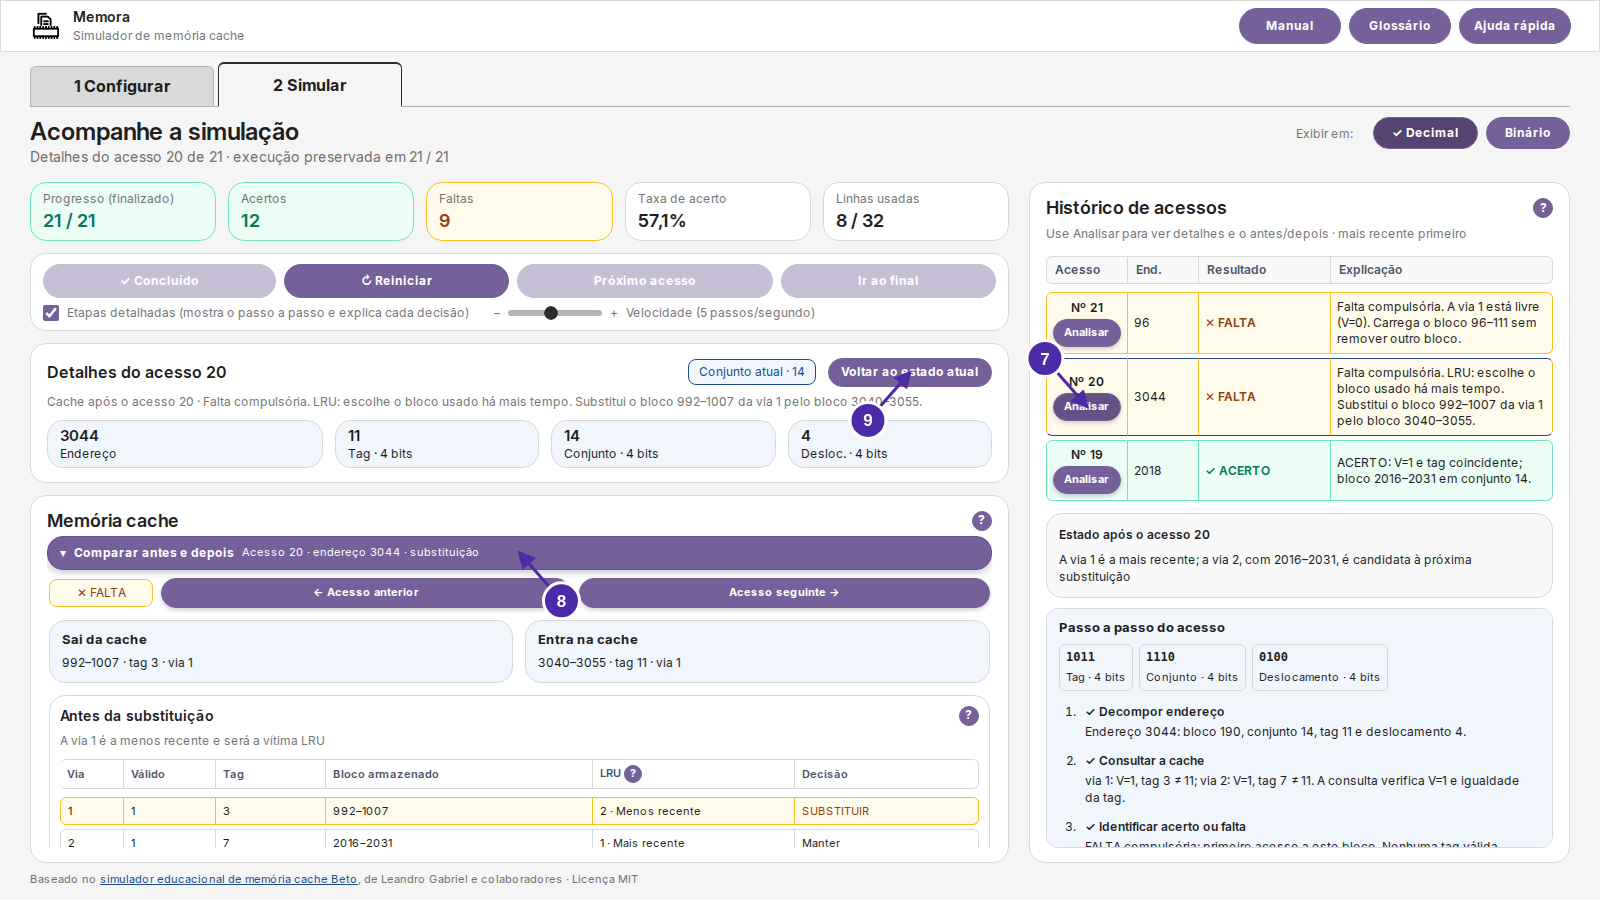
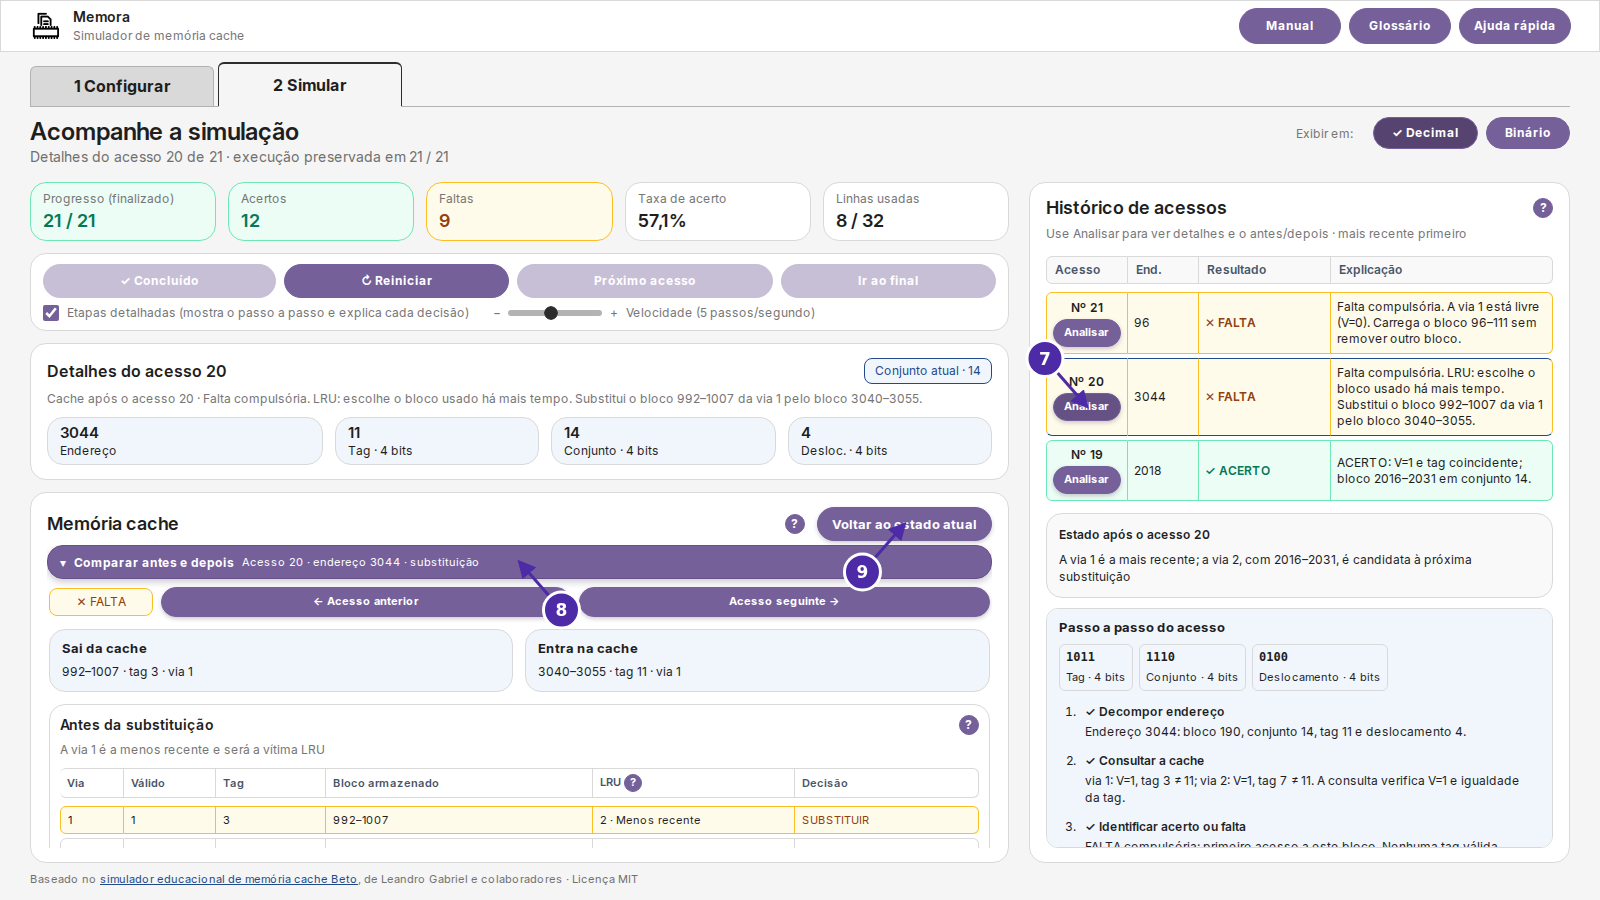
fix(ux): destaca o retorno ao estado atual da cache (#95)
* fix(ux): destaca retorno ao estado atual na memória cache

* docs(memora): atualiza a captura de retorno e a verificação

* docs(tcc): distingue as entregas dos PRs 95 e 96

Changed region(s): [[0.0312, 0.3733, 0.625, 0.9644], [0.5938, 0.7778, 0.625, 0.8089]]

diff --git a/packages/memora/index.html b/packages/memora/index.html
@@ -146,12 +146,16 @@
             </section>
             <p id="sim-status" class="sr-only" role="status" aria-live="polite">Pronto para iniciar · nenhum acesso foi processado</p>
             <section class="simulation-address simulation-card" aria-labelledby="current-address-heading">
-              <div class="simulation-card-heading"><h2 id="current-address-heading" tabindex="-1">Próximo acesso</h2><span id="address-set" class="set-badge" hidden></span><button type="button" id="show-live" hidden>Voltar ao estado atual</button></div>
+              <div class="simulation-card-heading"><h2 id="current-address-heading" tabindex="-1">Próximo acesso</h2><span id="address-set" class="set-badge" hidden></span></div>
               <p id="current-address-description" class="simulation-description">O primeiro endereço será decomposto quando a simulação começar</p>
               <dl class="current-address-parts"><div><dd id="sim-address">—</dd><dt>Endereço</dt></div><div><dd id="sim-tag">—</dd><dt id="sim-tag-label">Tag</dt></div><div><dd id="sim-set">—</dd><dt id="sim-set-label">Conjunto</dt></div><div><dd id="sim-offset">—</dd><dt id="sim-offset-label">Deslocamento</dt></div></dl>
             </section>
             <section class="simulation-cache simulation-card" aria-labelledby="cache-heading">
-              <div class="simulation-card-heading"><h2 id="cache-heading">Memória cache</h2><button type="button" class="help-button" data-help="cache" aria-label="Ajuda: Memória cache">?</button></div>
+              <div class="simulation-card-heading">
+                <h2 id="cache-heading" tabindex="-1">Memória cache</h2>
+                <button type="button" class="help-button" data-help="cache" aria-label="Ajuda: Memória cache">?</button>
+                <button type="button" id="show-live" aria-controls="access-comparison cache-scroll" hidden>Voltar ao estado atual</button>
+              </div>
               <p class="simulation-description" id="cache-description">A cache começa vazia. As linhas aparecerão conforme os blocos forem carregados</p>
               <div id="cache-navigation" class="cache-navigation" hidden><span id="cache-page-summary"></span><div><button id="cache-prev" type="button">← Anteriores</button><button id="cache-next" type="button">Próximas →</button></div><form id="cache-jump-form"><label for="cache-line-jump">Ir à linha</label><input id="cache-line-jump" type="text" inputmode="numeric" aria-describedby="cache-jump-error"><button type="submit">Ir</button></form><p id="cache-jump-error" class="error-text" role="status"></p></div>
               <details id="access-comparison" class="cache-comparison" hidden>

diff --git a/packages/memora/browser/comparison.spec.js b/packages/memora/browser/comparison.spec.js
@@ -179,6 +179,10 @@ test('comparação é operável por teclado e mantém ajuda e foco', async ({pag
 test('Analisar é uma ação visível que abre diretamente o antes/depois e mantém o foco', async ({page}) => {
   await prepare(page, 20);
   const review = page.getByRole('button', { name: 'Analisar acesso 20', exact: true });
+  const cache = page.getByRole('region', { name: 'Memória cache', exact: true });
+  const returnToLive = cache.getByRole('button', { name: 'Voltar ao estado atual', exact: true });
+  const statistics = await page.locator('.simulation-metrics dd').allTextContents();
+  await expect(returnToLive).toBeHidden();
   await expect(review).toHaveText('Analisar');
   await expect(page.locator('#history-table tr[data-access="20"] .history-access-number')).toHaveText('Nº 20');
   await review.focus();
@@ -196,9 +200,16 @@ test('Analisar é uma ação visível que abre diretamente o antes/depois e mant
   await review.focus();
   await page.keyboard.press('Space');
   await expect(page.locator('#access-comparison')).toHaveAttribute('open', '');
-  await page.locator('#show-live').click();
+  await expect(returnToLive).toBeVisible();
+  await expect(returnToLive).not.toHaveCSS('box-shadow', 'none');
+  await returnToLive.focus();
+  await page.keyboard.press('Enter');
+  await expect(returnToLive).toBeHidden();
+  await expect(cache.getByRole('heading', { name: 'Memória cache', exact: true })).toBeFocused();
+  await expect(review).toHaveAttribute('aria-pressed', 'false');
   await expect(page.locator('#access-comparison')).not.toHaveAttribute('open');
   await expect(page.locator('#cache-scroll')).toBeVisible();
+  expect(await page.locator('.simulation-metrics dd').allTextContents()).toEqual(statistics);
 });
 
 for (const [width,height] of [[1280,720],[1366,768],[1920,1080],[801,900],[390,900],[320,900]]) {

diff --git a/packages/memora/src/ui/manual-content.js b/packages/memora/src/ui/manual-content.js
@@ -38,12 +38,12 @@ export const MANUAL_PAGES = {
       markers: ['#sim-play', '#sim-next', '#sim-detailed', '#sim-speed', '#cache-heading', '#history-heading'],
     }, {
       image: image('comparacao.png'),
-      alt: 'Simulação com acesso 20 selecionado; marcadores 7 a 9 identificam a comparação e o retorno ao estado atual.',
+      alt: 'Simulação com acesso 20 selecionado; o marcador 9 indica o retorno no cabeçalho de Memória cache.',
       caption: 'No cenário LRU, analisar o acesso 20 evidencia a substituição do bloco 992–1007 pelo bloco 3040–3055.',
       steps: [
         ['Analisar a substituição', 'No histórico, clique em Analisar no acesso Nº 20. A comparação abre junto da memória cache, mostrando o acesso selecionado.'],
         ['Comparar antes e depois', 'Confira Sai da cache e Entra na cache e as tabelas Antes da substituição e Depois da substituição. Use Acesso anterior/seguinte para navegar entre registros.'],
-        ['Voltar ao estado atual', 'Clique em Voltar ao estado atual para sair da análise. O progresso, a cache e os totais da execução permanecem preservados.'],
+        ['Voltar ao estado atual', 'No cabeçalho de Memória cache, clique em Voltar ao estado atual para sair da análise e retomar a consulta da cache da execução. O progresso e os totais ficam preservados.'],
       ],
       markers: ['#history-table [data-review="20"]', '#access-comparison summary', '#show-live'],
       start: 7,

diff --git a/packages/memora/src/styles/simulation.css b/packages/memora/src/styles/simulation.css
@@ -95,7 +95,7 @@
 .pending-row td { background: var(--memora-info-background); }
 .history-summary { margin-top: 12px; flex-shrink: 0; padding: 12px; border: 1px solid var(--sds-color-border-default-default); border-radius: var(--sds-size-radius-400); background: #f9f9f9; font-size: 12px; line-height: 17px; }
 .history-summary h3 { font-size: 12px; font-weight: 600; margin-bottom: 8px; }
-#show-live { min-height: 28px; padding: 5px 12px; font-size: 12px; }
+#show-live { min-height: 34px; padding: 6px 14px; font-size: 13px; box-shadow: 0 2px 4px rgb(43 29 70 / 22%); }
 .sheet-glossary { margin-top: 24px; width: 100%; }
 .set-badge { max-width: 100%; min-width: 0; white-space: normal; overflow-wrap: anywhere; }
 @media (min-width: 801px) and (max-height: 800px) {
@@ -151,6 +151,7 @@
   .number-format button { padding-inline: 14px; }
   .simulation-card { padding: 14px 12px; }
   .simulation-card-heading { flex-wrap: wrap; }
+  #show-live { width: 100%; }
   .current-address-parts { grid-template-columns: repeat(2, minmax(0, 1fr)); gap: 8px; }
   .playback-preferences { gap: 12px; }
 }

diff --git a/packages/memora/src/ui/simulate-screen.js b/packages/memora/src/ui/simulate-screen.js
@@ -299,12 +299,16 @@ export function mountSimulateScreen(document, { onChange = () => {}, onReview = 
       controller.play();
     }
   });
-  for (const [id, method] of [['sim-restart', 'restart'], ['sim-next', 'nextAccess'], ['sim-finish', 'finish'], ['show-live', 'showLive']]) {
+  for (const [id, method] of [['sim-restart', 'restart'], ['sim-next', 'nextAccess'], ['sim-finish', 'finish']]) {
     byId(id).addEventListener('click', () => {
       if (method === 'restart') { cacheStart = 0; lastFocus = null; cellStarts.clear(); }
       controller?.[method]();
     });
   }
+  byId('show-live').addEventListener('click', () => {
+    controller?.showLive();
+    byId('cache-heading').focus({ preventScroll: true });
+  });
   for (const format of ['decimal', 'binary']) byId(`format-${format}`).addEventListener('click', () => controller?.setFormat(format));
   byId('sim-speed').addEventListener('input', () => controller?.setSpeed(Number(byId('sim-speed').value)));
   byId('sim-detailed').addEventListener('change', () => controller?.setDetailed(byId('sim-detailed').checked));

diff --git a/docs/historico-desenvolvimento.md b/docs/historico-desenvolvimento.md
@@ -1,6 +1,6 @@
 # Memora — histórico de desenvolvimento
 
-**Consolidação:** 23/10/2026. As datas usam o horário de Brasília
+**Consolidação:** 09/11/2026. As datas usam o horário de Brasília
 (`America/Sao_Paulo`, UTC−3). Atividades relatadas nas conversas são registradas
 pela data em que ocorreram; integração e publicação são conferidas no Git.
 O horário UTC do GitHub pode cair no dia seguinte.
@@ -13,10 +13,12 @@ integradas em 14/10 e permanecem como referência histórica. O [Memora online](
 é publicado pelo GitHub Pages, com atualização automática após sintaxe, testes
 Node e build. O Beto em `docs/` continua disponível para comparação local.
 
-O código funcional e as verificações técnicas estão documentados. O artigo
-em LaTeX incorpora a implementação e o levantamento de 13 respostas do Beto.
-A avaliação externa do Memora e a inspeção formal com severidade permanecem
-pendentes. Consulte o [estado atual](estado-atual.md) e o [artigo](../tcc/README.md).
+O [artigo em LaTeX](../tcc/README.md) reúne a implementação, o levantamento de
+13 respostas sobre o Beto e a rodada original de avaliação do Memora.
+A consolidação dos sete estudantes está em revisão no
+[PR #96](https://github.com/LuizJr2001/memora-cache-simulator-tcc/pull/96).
+A [#70](https://github.com/LuizJr2001/memora-cache-simulator-tcc/issues/70)
+acompanha a reobservação do histórico. Consulte o [estado atual](estado-atual.md).
 
 ## Marcos e evidências
 
@@ -43,6 +45,11 @@ pendentes. Consulte o [estado atual](estado-atual.md) e o [artigo](../tcc/README
 | 23/10 | Análise integrada à simulação | [PR #60](https://github.com/LuizJr2001/memora-cache-simulator-tcc/pull/60) e [decisão 004](decisoes/004-analise-contextual.md): duas etapas, comparação recolhível, revisão sem execução e 16 ajudas |
 | 23/10 | Botões preenchidos em roxo | [PR #61](https://github.com/LuizJr2001/memora-cache-simulator-tcc/pull/61) e [#62](https://github.com/LuizJr2001/memora-cache-simulator-tcc/pull/62): `#75609A` e texto branco em todas as ações; a proposta de secundários com contorno foi substituída |
 | 23/10 | Consolidação documental e artigo | Atualização dos guias, decisões, resultados dos dois cenários e fonte LaTeX; questionário já coletado diferenciado da avaliação posterior do Memora |
+| 03/11 | Histórico e reprodução revistos após P01–P03 | [PR #71](https://github.com/LuizJr2001/memora-cache-simulator-tcc/pull/71): ação textual, comparação aberta ao revisar e controles de reprodução unificados |
+| 04/11 | Manual visual, botão Analisar e navegação com destaque | [PR #87](https://github.com/LuizJr2001/memora-cache-simulator-tcc/pull/87) e [PR #89](https://github.com/LuizJr2001/memora-cache-simulator-tcc/pull/89) |
+| 04/11 | Artigo SBC e apêndices organizados | PRs [#85](https://github.com/LuizJr2001/memora-cache-simulator-tcc/pull/85), [#88](https://github.com/LuizJr2001/memora-cache-simulator-tcc/pull/88) e [#90](https://github.com/LuizJr2001/memora-cache-simulator-tcc/pull/90) |
+| 05/11 | Fichas complementares P04–P07 consolidadas | [PR #91](https://github.com/LuizJr2001/memora-cache-simulator-tcc/pull/91) arquiva P01–P04. As issues #92–#94 registram os achados de P05–P07 |
+| 09/11 | Consolidação dos sete casos e destaque do retorno propostos em PRs | [PR #96](https://github.com/LuizJr2001/memora-cache-simulator-tcc/pull/96): artigo e apuração das fichas; [PR #95](https://github.com/LuizJr2001/memora-cache-simulator-tcc/pull/95): retorno ao estado atual. A [#70](https://github.com/LuizJr2001/memora-cache-simulator-tcc/issues/70) acompanha a reobservação com usuários |
 
 ## Comportamentos consolidados
 
@@ -61,11 +68,13 @@ pendentes. Consulte o [estado atual](estado-atual.md) e o [artigo](../tcc/README
   bits de conjunto. A arquitetura define a largura dos campos, que podem ter
   zero bits. A prévia usa o primeiro endereço de uma sequência válida.
 - **Simular:** modo detalhado avança uma das seis etapas; modo resumido avança
-  um acesso completo. Próximo acesso conclui um acesso nos dois modos; Parar só fica habilitado durante reprodução automática. O rótulo de velocidade indica passos/segundo ou
+  um acesso completo. Próximo acesso conclui um acesso nos dois modos. Iniciar,
+  Pausar e Continuar usam o mesmo botão desde o PR #71. O rótulo de velocidade indica passos/segundo ou
   acessos/segundo, com valor inicial 5. Cache e histórico têm rolagem local.
 - **Comparação em Simular:** snapshots reais permitem explicar a escolha sem repetir a
   execução ou sortear novamente uma vítima Random. Acerto e carga em via livre
-  recebem explicações próprias, sem inventar uma substituição.
+  recebem explicações próprias. Voltar ao estado atual fica no cabeçalho de
+  Memória cache durante a revisão e encerra a consulta com os contadores preservados.
 - **Origem:** o Memora aprimora o [Beto](https://github.com/leo150250/simuladorCache),
   simulador educacional de memória cache de Leandro Gabriel e colaboradores.
   MIT é a licença do código.
@@ -95,20 +104,21 @@ passaram. Os relatórios mantêm os registros originais.
 | Integração da comparação, PR #60 | 78 testes Node e 93 cenários Chromium (46 + 32 + 15), sintaxe e build | [Decisão 004](decisoes/004-analise-contextual.md) e [PR #60](https://github.com/LuizJr2001/memora-cache-simulator-tcc/pull/60) |
 | Cores dos botões, PRs #61/#62 | Sintaxe, 78 testes Node e build; nova inspeção visual da paleta pendente | [PR #61](https://github.com/LuizJr2001/memora-cache-simulator-tcc/pull/61) e [#62](https://github.com/LuizJr2001/memora-cache-simulator-tcc/pull/62) |
 
+A revisão de 09/11 passou pela sintaxe, 78 testes Node, build e 98 cenários
+Chromium. O teste do retorno verificou o foco e a preservação das métricas.
+
 Firefox/Safari e avaliação com participantes não são comprovados por esses
 testes Chromium. O [guia de contribuição](../CONTRIBUTING.md) descreve como
 executar as suítes e registrar novas verificações separadamente.
 
 ## Pendências acadêmicas e de escopo
 
-- Consolidar o retorno da orientação e realizar/registrar a avaliação com
-  estudantes conforme [#33](https://github.com/LuizJr2001/memora-cache-simulator-tcc/issues/33)
-  e a avaliação da versão funcional na [#23](https://github.com/LuizJr2001/memora-cache-simulator-tcc/issues/23).
+- Consolidar o retorno da orientação sobre o protótipo (#33) e a versão
+  funcional (#64). Reobservar o histórico e o retorno à cache na #70.
 - Registrar a inspeção formal, dificuldades observadas e decisões decorrentes,
   sem tratar inspeções visuais ou testes automatizados como aprovação externa.
-- Revisar com a orientação o [artigo atualizado](../tcc/README.md) e incorporar
-  os resultados da avaliação externa quando existirem, conforme
-  [#24](https://github.com/LuizJr2001/memora-cache-simulator-tcc/issues/24).
+- Revisar com a orientação o [artigo atualizado](../tcc/README.md) e preparar
+  a defesa conforme o [calendário](https://github.com/LuizJr2001/memora-cache-simulator-tcc/issues/22).
 - Manter leitura/escrita, políticas de escrita e dirty bit como trabalho futuro
   na [#32](https://github.com/LuizJr2001/memora-cache-simulator-tcc/issues/32);
   exportação e comparação entre configurações não são funcionalidades entregues.

diff --git a/docs/estado-atual.md b/docs/estado-atual.md
@@ -1,8 +1,8 @@
 # Memora — estado atual da aplicação
 
-Consolidação: **23/10/2026**, após os PRs #60, #61 e #62. Este documento
-descreve o código integrado à `main`. O Figma v2, as antigas três telas e os
-relatórios datados continuam como registros históricos.
+Consolidação: **09/11/2026**. O Figma v2, as antigas três telas e os relatórios
+datados registram as etapas anteriores. A publicação do Memora acompanha a
+branch `main`.
 
 ## Fluxo e recursos
 
@@ -10,8 +10,8 @@ relatórios datados continuam como registros históricos.
    dos campos e prepara uma entrada imutável ao clicar em Iniciar simulação.
    A preparação abre Simular em 0 acessos, sem iniciar a reprodução.
 2. **Simular:** mostra cache, células, validade, LRU quando aplicável, histórico,
-   decomposição e estatísticas. A comparação antes/depois fica recolhida no
-   cartão Memória cache e usa os snapshots do acesso selecionado.
+   decomposição e estatísticas. Analisar, no histórico, abre a comparação
+   antes/depois no cartão Memória cache com os snapshots do acesso selecionado.
 
 Analisar o histórico ou navegar pela comparação não processa acessos nem altera
 os contadores. A vítima Random permanece a mesma do registro original. Acesso
@@ -23,7 +23,7 @@ registra a incorporação da antiga etapa Analisar à simulação.
 | Controle/estado | Comportamento atual |
 |---|---|
 | Iniciar/Continuar/Pausar | Controla a reprodução automática |
-| Parar | Só fica habilitado durante reprodução automática; preserva o andamento |
+| Voltar ao estado atual | Durante a revisão, fecha a comparação e volta à cache da execução pelo cabeçalho de Memória cache. O progresso é preservado |
 | Reiniciar | Zera cache, histórico e contadores |
 | Próximo acesso | Conclui um acesso completo, inclusive se houver microetapa pendente |
 | Ir ao final | Conclui os acessos restantes e preserva os registros |
@@ -89,19 +89,23 @@ endereços e 18000 caracteres. Consulte as [APIs e regras](../packages/memora/sr
 
 - **Implementação:** HTML/CSS e módulos ES; núcleo sem DOM, controladores com
   relógio e apresentação por snapshots; publicação estática no GitHub Pages.
-- **Suítes atuais:** 78 testes Node e 93 cenários Chromium (46 Configurar,
-  32 Simular e 15 comparação). O PR #60 registra a execução completa de Chromium.
+- **Verificação de 09/11:** sintaxe, 78 testes Node, build e 98 cenários
+  Chromium, incluindo retorno pelo teclado, seleção histórica e contadores.
 - **Cores #61/#62:** sintaxe, 78 testes Node e build aprovados; sem nova execução
   visual em navegador. As capturas históricas não comprovam a nova paleta.
 - **Pesquisa:** 13 respostas sobre o Beto, coletadas de maio a junho; ver
   [dados anonimizados](../research/survey-2026/README.md). Esse levantamento não
   é uma avaliação posterior do Memora.
-- **Artigo:** [fonte LaTeX e pacote Overleaf](../tcc/README.md) atualizados com
-  decisões, implementação e evidências disponíveis até esta data.
-- **Pendente:** avaliação do Memora com estudantes, consolidação formal da
-  inspeção com severidade, verificação em Firefox/Safari e medição de resultados
-  de aprendizagem. Escrita, dirty bit, gráficos, exportação e comparação entre
-  configurações permanecem trabalhos futuros.
+- **Avaliação funcional:** a [síntese das fichas](../research/evaluation-2026/README.md)
+  documenta os encaminhamentos de P01–P03. A consolidação dos sete casos,
+  das fichas complementares e dos dados de apuração do [artigo](../tcc/README.md)
+  está em revisão no [PR #96](https://github.com/LuizJr2001/memora-cache-simulator-tcc/pull/96).
+  A melhoria do retorno ao estado atual atende à sugestão de P06 registrada na #93.
+- **Próximas verificações:** descoberta da comparação e do retorno ao estado
+  atual em sessão com versão registrada (#70). Inspeção com severidade,
+  verificação em Firefox/Safari e estudo de aprendizagem permanecem em aberto.
+  Escrita, dirty bit, gráficos, exportação e comparação entre configurações são
+  trabalhos futuros.
 
 O [histórico](historico-desenvolvimento.md) mantém a sequência dos marcos e a
 origem de cada execução. Mudanças documentais não encerram automaticamente as

diff --git a/packages/memora/src/ui/README.md b/packages/memora/src/ui/README.md
@@ -89,8 +89,9 @@ histórico preservam intervalos e estatísticas anteriores à mutação (#30).
 
 O botão textual Analisar, abaixo do número do acesso, abre a comparação dos
 snapshots antes/depois, sem mudar os contadores atuais. O subtítulo explicita
-essa diferença. Voltar ao estado atual recolhe a comparação e
-restaura o estado atual, sem avançar o motor. Ao terminar, o controle de reprodução
+essa diferença. Voltar ao estado atual aparece no cabeçalho de Memória cache
+enquanto um acesso do histórico está selecionado. A ação recolhe a comparação,
+restaura a visão da execução e devolve o foco ao cabeçalho sem avançar o motor. Ao terminar, o controle de reprodução
 mostra ✓ Concluído e permanece desabilitado; o cartão Progresso fica verde.
 Reiniciar restaura a aparência inicial. O histórico permanece completo.
 Antes do primeiro acesso, a comparação fica indisponível.

diff --git a/packages/memora/README.md b/packages/memora/README.md
@@ -8,7 +8,10 @@ Iniciar simulação prepara uma entrada válida e abre a **Tela 2 — Simular**,
 estado inicial, sem executar acessos automaticamente. A Tela 2 implementa os
 três mapeamentos, FIFO/LRU/Random, controles, microetapas, histórico, revisão por
 snapshot e Decimal/Binário. A comparação antes/depois fica no cartão Memória
-cache e abre diretamente ao usar Analisar no histórico.
+cache e abre diretamente ao usar Analisar no histórico. Durante a revisão,
+**Voltar ao estado atual** aparece no cabeçalho de Memória cache. A ação
+fecha a comparação e devolve o foco ao título do cartão, com progresso e
+contadores preservados.
 O fluxo atual tem somente Configurar e Simular; a antiga Tela 3 foi integrada
 sem repetir a decomposição do endereço e o passo a passo.
 
